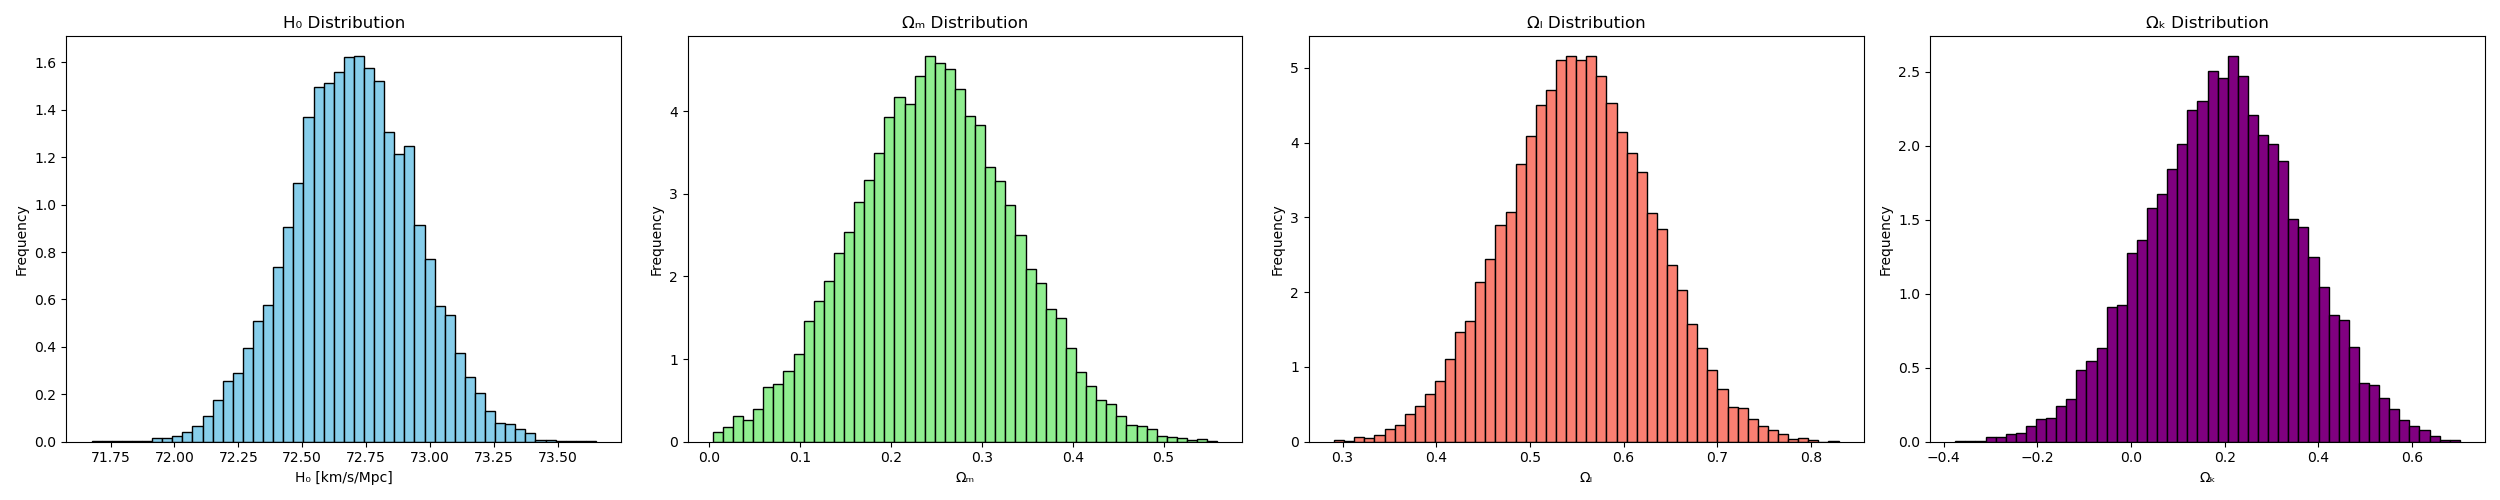
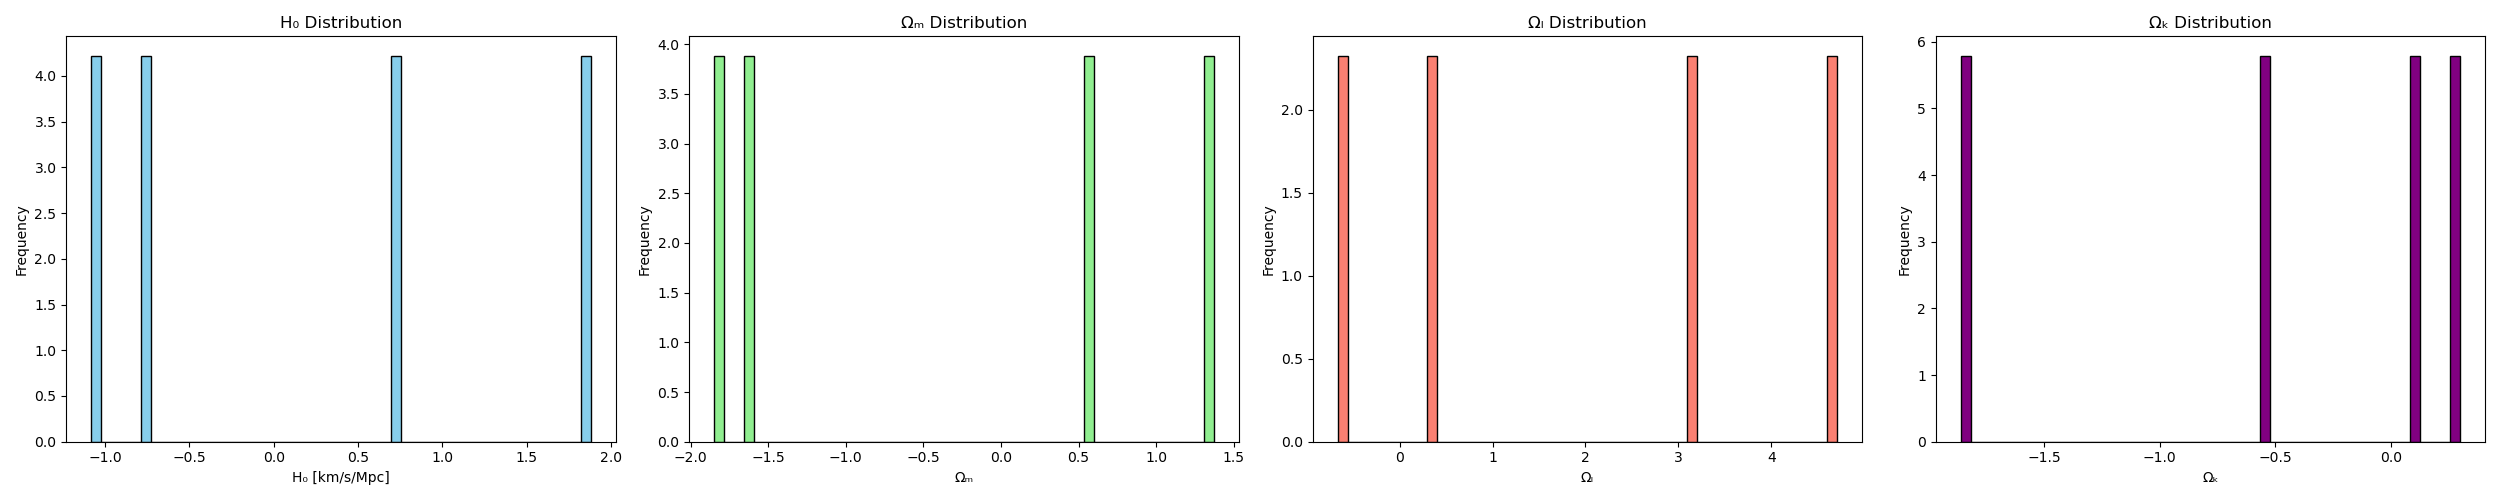
Semi working taylor

diff --git a/Supernova_project/cosmology_inference.py b/Supernova_project/cosmology_inference.py
@@ -1,3 +1,4 @@
+import numpyro.infer.initialization
 import pandas as pd
 import numpyro
 import numpy as np
@@ -8,7 +9,7 @@ import numpyro.distributions as dist
 from numpyro.infer import MCMC, NUTS
 from numpyro import sample
 import matplotlib.pyplot as plt
-
+import corner
 # Configuration
 class Config:
     # MCMC settings
@@ -16,13 +17,12 @@ class Config:
     NUM_SAMPLES = 5000
     NUM_CHAINS = 4
     TARGET_ACCEPT_PROB = 0.8
-    MAX_TREE_DEPTH = 5
+    MAX_TREE_DEPTH = 8
     
     # Priors
-    H0_PRIOR = (60.0, 80.0)  # Uniform prior range for H0
-    OM_PRIOR = (0.0, 0.9)    # Uniform prior range for Omega_m
-    OK_PRIOR_MEAN = 0.0      # Mean for Ok normal prior
-    OK_PRIOR_STD = 0.2       # Std for Ok normal prior
+    H0_PRIOR = dist.Normal(70, 5)
+    OM_PRIOR = dist.Normal(0.3, 0.1)
+    OK_PRIOR = dist.Normal(0, 0.1)
     
     # Data filtering
     MIN_REDSHIFT = 0.001
@@ -89,58 +89,79 @@ class CosmologyInference:
         return cov_matrix
     
     @staticmethod
-    def hubble_z(H0, Om, Ok, z, flat=True):
+    def hubble_z(H0, Om, Ok, z):
         """Hubble parameter at redshift z"""
         matter_term = Om * (1 + z)**3
-        if flat:
-            lambda_term = (1 - Om)
-        else:
-            lambda_term = (1 - Om - Ok)
-            curvature_term = Ok * (1 + z)**2
-            return H0 * jnp.sqrt(matter_term + lambda_term + curvature_term)
-        return H0 * jnp.sqrt(matter_term + lambda_term)
+        lambda_term = jnp.where(jnp.abs(Ok) < Config.EPSILON,
+                              1 - Om,  # flat universe case
+                              1 - Om - Ok)  # curved universe case
+        
+        curvature_term = Ok * (1 + z)**2
+        return H0 * jnp.sqrt(matter_term + lambda_term + jnp.where(jnp.abs(Ok) < Config.EPSILON, 0.0, curvature_term))
     
-    def chi(self, h0, Om, Ok, z, flat=True):
+    def chi(self, h0, Om, Ok, z):
         """Comoving distance"""
         N = 1000
         z_max = jnp.max(z)
-        z_array = jnp.linspace(0.001, z_max, N)
+        z_min = jnp.min(z)
+        z_array = jnp.linspace(z_min, z_max, N)
         dz = jnp.diff(z_array, append=z_array[-1])
         
-        integrand_values = Config.C / self.hubble_z(h0, Om, Ok, z_array, flat)
+        integrand_values = Config.C / self.hubble_z(h0, Om, Ok, z_array)
         return jax.vmap(lambda z_point: jnp.sum(integrand_values * dz * (z_array <= z_point)))(z)
     
-    def luminosity_distance(self, H0, Om, Ok, z, flat=True):
-        """Luminosity distance"""
-        # TODO: curvature correction!!!
-        chi_val = self.chi(H0, Om, Ok, z, flat)
-        return (1 + z) * chi_val
-    
-    def distance_modulus(self, H0, Om, Ok, z, flat=True):
+    def r_exact(self, Ok, chi):
+        """Exact radial distance function"""
+        # Flat universe (Ok = 0)
+        flat_case = chi
+        # Open universe (Ok > 0)
+        open_case = 1/jnp.sqrt(Ok + Config.EPSILON) * jnp.sinh(jnp.sqrt(Ok + Config.EPSILON) * chi)
+        # Closed universe (Ok < 0)
+        closed_case = 1/jnp.sqrt(jnp.abs(Ok) + Config.EPSILON) * jnp.sin(jnp.sqrt(jnp.abs(Ok)) * chi)
+        
+        return jnp.where(Ok == 0, flat_case,
+                        jnp.where(Ok > 0, open_case, closed_case))
+
+    def r_taylor(self, Ok, chi):
+        """Taylor expansion of radial distance around Ok = 0 and differentiate between positive and negative Ok"""      
+        def positive_ok(Ok, chi):
+            return chi/jnp.sqrt(Ok + Config.EPSILON) + (chi**3)/6 * jnp.sqrt(Ok + Config.EPSILON) + 1/120 * (chi**5) * jnp.sqrt(Ok + Config.EPSILON)**3
+        def negative_ok(Ok, chi):
+            return chi/jnp.sqrt(-Ok + Config.EPSILON) - (chi**3)/6 * jnp.sqrt(-Ok + Config.EPSILON) + 1/120 * (chi**5) * jnp.sqrt(-Ok + Config.EPSILON)**3
+        result = jnp.where(Ok > 0, positive_ok(Ok, chi), negative_ok(Ok, chi))
+        return result
+
+    def luminosity_distance(self, H0, Om, Ok, z):
+        """Luminosity distance using Taylor expansion around Ok = 0"""
+        chi_val = self.chi(H0, Om, Ok, z)
+        r_z = jnp.where(jnp.abs(Ok) < Config.EPSILON, chi_val, self.r_taylor(Ok, chi_val))
+        return r_z * (1 + z)
+
+    def distance_modulus(self, H0, Om, Ok, z):
         """Distance modulus"""
-        d_L = self.luminosity_distance(H0, Om, Ok, z, flat)
+        d_L = self.luminosity_distance(H0, Om, Ok, z)
         return 5 * jnp.log10(d_L + Config.EPSILON) + 25
     
     def model_flat(self, z, mu_obs, mu_err):
         """Flat ΛCDM model"""
-        H0 = sample("H0", dist.Uniform(*Config.H0_PRIOR))
-        Om = sample("Om", dist.Uniform(*Config.OM_PRIOR))
+        H0 = sample("H0", Config.H0_PRIOR)
+        Om = sample("Om", Config.OM_PRIOR)
         Ok = 0.0
         
         likelihood = dist.MultivariateNormal(
-            self.distance_modulus(H0, Om, Ok, z, flat=True), 
+            self.distance_modulus(H0, Om, Ok, z), 
             self.sys_stat_cov_matrix
         )
         sample("obs", likelihood, obs=mu_obs)
     
     def model_curved(self, z, mu_obs, mu_err):
         """Curved ΛCDM model"""
-        H0 = sample("H0", dist.Uniform(*Config.H0_PRIOR))
-        Om = sample("Om", dist.Uniform(*Config.OM_PRIOR))
-        Ok = sample("Ok", dist.Normal(Config.OK_PRIOR_MEAN, Config.OK_PRIOR_STD))
+        H0 = sample("H0", Config.H0_PRIOR)
+        Om = sample("Om", Config.OM_PRIOR)
+        Ok = sample("Ok", Config.OK_PRIOR)
         
         likelihood = dist.MultivariateNormal(
-            self.distance_modulus(H0, Om, Ok, z, flat=False), 
+            self.distance_modulus(H0, Om, Ok, z), 
             self.sys_stat_cov_matrix
         )
         sample("obs", likelihood, obs=mu_obs)
@@ -148,17 +169,18 @@ class CosmologyInference:
     def run_inference(self, model_type="flat"):
         """Run MCMC inference"""
         model = self.model_flat if model_type == "flat" else self.model_curved
-        
         kernel = NUTS(model, 
                      target_accept_prob=Config.TARGET_ACCEPT_PROB,
-                     max_tree_depth=Config.MAX_TREE_DEPTH)
+                     max_tree_depth=Config.MAX_TREE_DEPTH
+        )
         
         mcmc = MCMC(kernel, 
                     num_warmup=Config.NUM_WARMUP,
                     num_samples=Config.NUM_SAMPLES,
                     num_chains=Config.NUM_CHAINS,
                     chain_method='parallel',
-                    progress_bar=True)
+                    progress_bar=True
+        )
         
         rng_key = random.PRNGKey(0)
         mcmc.run(rng_key, z=self.z, mu_obs=self.mu_obs, mu_err=self.mu_err)
@@ -204,6 +226,56 @@ class CosmologyInference:
         plt.savefig(f'{Config.PLOT_PATH}{model_type}_posteriors.png')
         plt.close()
 
+    def test_model(self, model_type="flat"):
+        """Test model"""
+        # draw 10000 samples from the prior
+        Om_prior = Config.OM_PRIOR
+        Om = np.array(Om_prior.sample(random.PRNGKey(0), (10000,)))
+        H0_prior = Config.H0_PRIOR
+        H0 = np.array(H0_prior.sample(random.PRNGKey(0), (10000,)))
+        if model_type == "curved":
+            Ok_prior = Config.OK_PRIOR
+            Ok = np.array(Ok_prior.sample(random.PRNGKey(0), (10000,)))
+        else:
+            Ok = np.zeros(10000)
+        
+        # Define ranges for the corner plot
+        ranges = [
+            (50, 80),     # H0 range
+            (0.1, 0.5),   # Om range
+            (-0.03, 0.03) # Ok range
+        ]
+        
+        # make a corner plot
+        fig = corner.corner(
+            np.stack([H0, Om, Ok], axis=-1), 
+            labels=['H0', 'Om', 'Ok'],
+            range=ranges,
+            plot_datapoints=False,
+            plot_density=False,
+            plot_contours=True,
+            fill_contours=True,
+            levels=[0.68, 0.95, 0.997],
+            plot_contours_kwargs={'colors': ['red', 'green', 'blue']}
+        )
+        plt.savefig(f'{Config.PLOT_PATH}{model_type}_corner_plot.png')
+        plt.close()
+
+        # plot the distance modulus for each combination
+        plt.figure(figsize=(10, 8))
+        plt.title('Distance Modulus')
+        plt.xlabel('Redshift')
+        plt.ylabel('Distance Modulus')
+        plt.grid(True)
+
+        for (Om,Ho,Ok) in zip(Om, H0, Ok):
+            mu = self.distance_modulus(Ho, Om, Ok, self.z)
+            plt.plot(self.z, mu, label=f'H0={Ho}, Om={Om}, Ok={Ok}')
+        plt.savefig(f'{Config.PLOT_PATH}{model_type}_distance_modulus.png')
+        plt.close()
+
+        print(f"Plot saved to {Config.PLOT_PATH}{model_type}_distance_modulus.png")
+
 # Example usage
 if __name__ == "__main__":
     # Initialize the inference object
@@ -218,3 +290,7 @@ if __name__ == "__main__":
     print("\nRunning curved ΛCDM model...")
     curved_samples = cosmo.run_inference(model_type="curved")
     cosmo.plot_samples(curved_samples, model_type="curved") 
+    
+    # Test model
+    cosmo.test_model(model_type="flat")
+    cosmo.test_model(model_type="curved")
